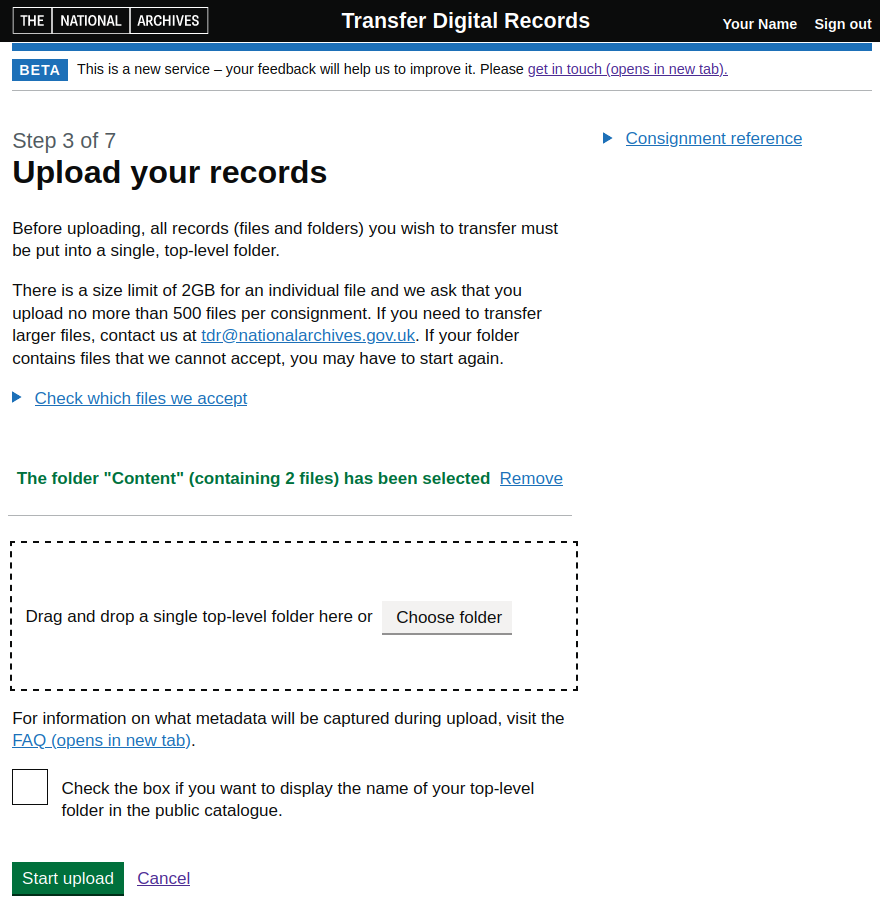
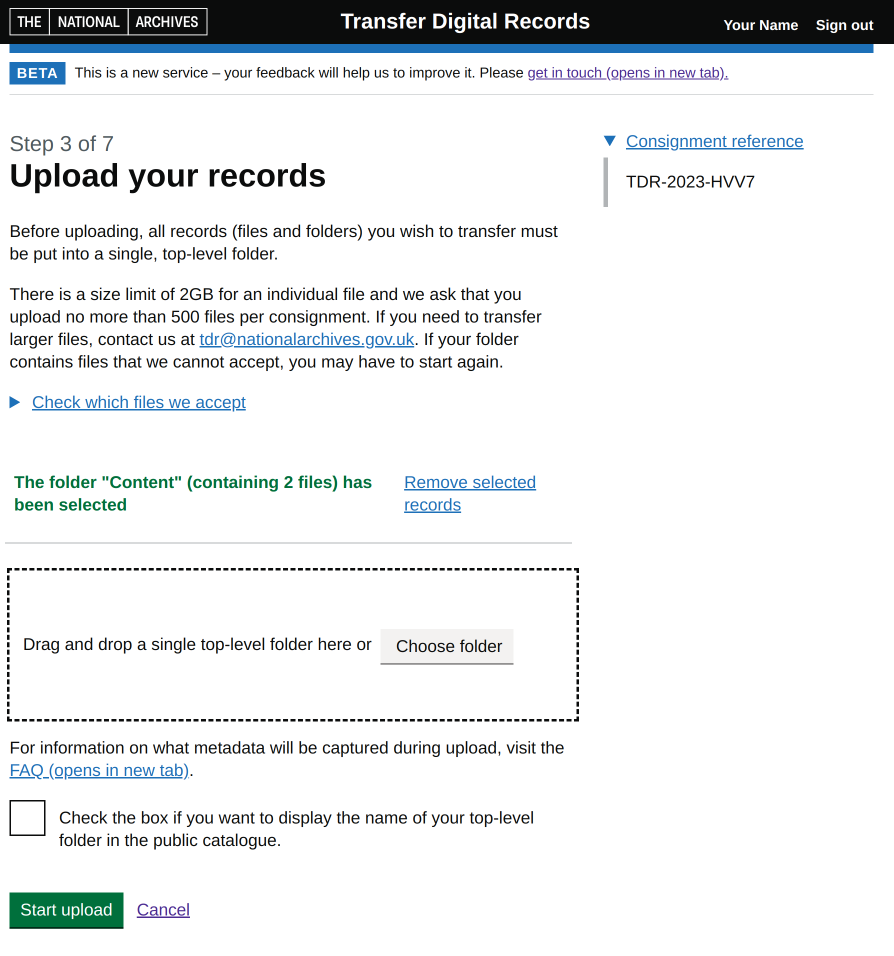
Change 'Remove' to 'Remove selected records'
This fixes an issue found in the accessibility audit. I've updated the
images and text in the help files to match.

diff --git a/app/views/standard/upload.scala.html b/app/views/standard/upload.scala.html
@@ -54,7 +54,7 @@
                                 tabindex="-1" role="alert" aria-describedby="success-message-text">
                                 <div class="success-message-flexbox-container" id="item-selection-success-container">
                                     <p id="success-message-text" class="success-message">The folder "<span class="folder-name"></span>" (containing <span class="folder-size"></span>) has been selected </p>
-                                    <a class="success-message-flexbox-item" id="remove-file-btn" href="#">Remove</a>
+                                    <a class="success-message-flexbox-item" id="remove-file-btn" href="#">Remove selected records</a>
                                 </div>
                                 <div class="success-message-flexbox-container" id="removed-selection-container" hidden="true">
                                     <p id="removed-selection-message-text" class="govuk-error-message">The folder "<span class="folder-name"></span>" (containing <span class="folder-size"></span>) has been removed. Select a folder.</p>

diff --git a/app/views/help.scala.html b/app/views/help.scala.html
@@ -306,7 +306,7 @@
                     <li>During the upload process, basic file-level metadata is captured, such as file path, file name, last date modified, and checksum</li>
                 </ul>
                 <img src="@routes.Assets.versioned("images/standard-records-selected.png")" class="screenshots" alt="Upload records with selected folder page" />
-                <li>If you need to change the folder selected, click the blue 'Remove' link next to the line confirming which folder has been selected and then start the selection again.</li>
+                <li>If you need to change the folder selected, click the blue 'Remove selected records' link next to the line confirming which folder has been selected and then start the selection again.</li>
             </ol>
             <p class="govuk-body">
                 At this stage, you still have legal custody of your records and are still responsible for any requests such as FOI, until they have been acknowledged as received by TNA.

diff --git a/app/views/judgment/judgmentUpload.scala.html b/app/views/judgment/judgmentUpload.scala.html
@@ -46,7 +46,7 @@
                                 tabindex="-1" role="alert" aria-describedby="success-message-text">
                                 <div class="success-message-flexbox-container" id="item-selection-success-container">
                                     <p id="success-message-text" class="success-message">The file "<span class="file-name"></span>" has been selected </p>
-                                    <a class="success-message-flexbox-item" id="remove-file-btn" href="#">Remove</a>
+                                    <a class="success-message-flexbox-item" id="remove-file-btn" href="#">Remove selected records</a>
                                 </div>
                                 <div class="success-message-flexbox-container" id="removed-selection-container" hidden>
                                     <p id="removed-selection-message-text" class="govuk-error-message">The file "<span class="file-name"></span>" has been removed. Select a file.</p>

diff --git a/app/views/judgment/judgmentHelp.scala.html b/app/views/judgment/judgmentHelp.scala.html
@@ -256,7 +256,7 @@
           <img src="@routes.Assets.versioned("images/judgment-upload-valid-file.png")" class="screenshots" alt="Judgment upload page with a valid file selected" />
 
           <p class="govuk-body">
-            If you selected a file in error, use the blue "Remove" link, to the right of the file name, to remove the file and start the selection again.
+            If you selected a file in error, use the blue "Remove selected records" link, to the right of the file name, to remove the file and start the selection again.
           </p>
           <li>Click <span class="govuk-!-font-weight-bold">"Start upload"</span> to upload your judgment into TDR. You will see a progress bar as the file is uploaded.</li>
           <img src="@routes.Assets.versioned("images/judgment-progress-bar.png")" class="screenshots" alt="Judgment upload progress bar" />
